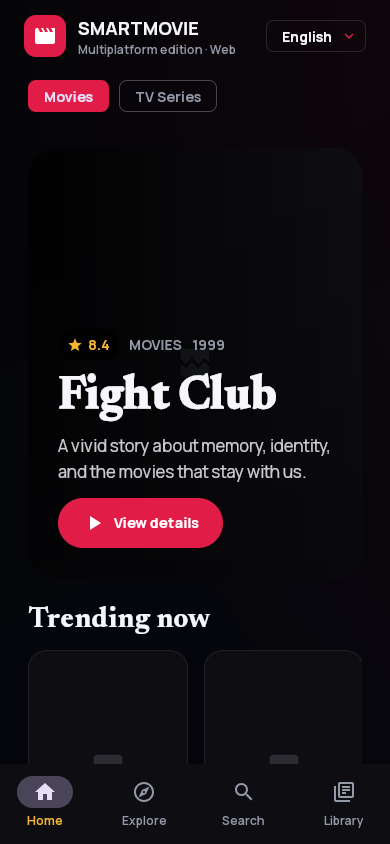
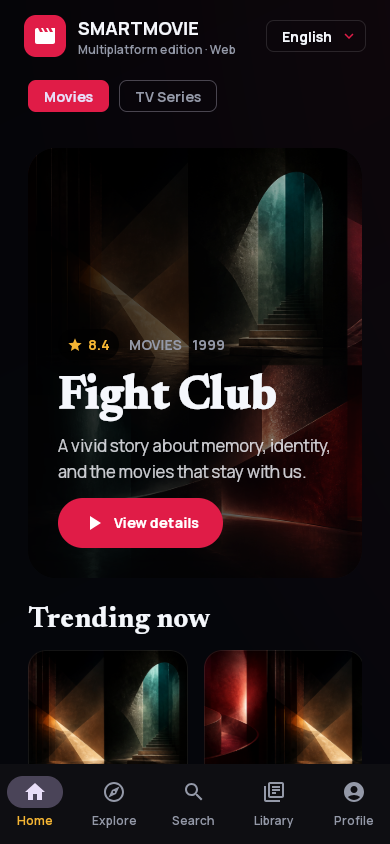
Refresh app gallery and link the shared development roadmap

diff --git a/multiplatform/composeApp/src/commonMain/kotlin/com/lamndt/smartmovie/multiplatform/SmartMovieApp.kt b/multiplatform/composeApp/src/commonMain/kotlin/com/lamndt/smartmovie/multiplatform/SmartMovieApp.kt
@@ -594,6 +594,11 @@ private fun ProfileScreen(state: SmartMovieState, controller: AppController) {
                     TextButton(onClick = { openExternalUrl("https://github.com/LamPPKK/Smart-Movie-Android") }) {
                         Text("Smart Movie Android")
                     }
+                    TextButton(onClick = {
+                        openExternalUrl("https://github.com/LamPPKK/Smart-Movie-iOS/blob/main/docs/DEVELOPMENT_PLAN.md")
+                    }) {
+                        Text(copy.developmentPlan)
+                    }
                 }
             }
         }
@@ -2126,6 +2131,7 @@ private data class ProfileCopy(
     val searchTitles: String,
     val addTitle: String,
     val sourceRepositories: String,
+    val developmentPlan: String,
 )
 
 private fun profileCopy(locale: AppLocale): ProfileCopy = when (locale) {
@@ -2141,7 +2147,7 @@ private fun profileCopy(locale: AppLocale): ProfileCopy = when (locale) {
         "Movie data and images: TMDb. Availability data: JustWatch via TMDb.", "Custom lists", "List name", "Description", "Create list", "Delete",
         "Account recommendations", "No account recommendations yet.",
         "Open", "Close list", "List details", "Waiting for this list to sync before editing.", "Public list", "Save changes",
-        "Titles in this list", "This list has no titles yet.", "Remove", "Add movies and TV series", "Search titles", "Add", "Source repositories",
+        "Titles in this list", "This list has no titles yet.", "Remove", "Add movies and TV series", "Search titles", "Add", "Source repositories", "Development roadmap",
     )
     AppLocale.VIETNAMESE -> ProfileCopy(
         "Hồ sơ", "Tài khoản TMDb", "Đang kiểm tra phiên…", "Đăng nhập qua TMDb trong trình duyệt. SmartMovie không bao giờ nhận mật khẩu của bạn.",
@@ -2155,7 +2161,7 @@ private fun profileCopy(locale: AppLocale): ProfileCopy = when (locale) {
         "Dữ liệu và hình ảnh phim: TMDb. Dữ liệu nơi xem: JustWatch qua TMDb.", "Danh sách tùy chỉnh", "Tên danh sách", "Mô tả", "Tạo danh sách", "Xóa",
         "Đề xuất cho tài khoản", "Chưa có đề xuất cho tài khoản.",
         "Mở", "Đóng danh sách", "Chi tiết danh sách", "Đang chờ đồng bộ danh sách trước khi chỉnh sửa.", "Danh sách công khai", "Lưu thay đổi",
-        "Nội dung trong danh sách", "Danh sách này chưa có nội dung.", "Gỡ", "Thêm phim và chương trình truyền hình", "Tìm phim hoặc chương trình", "Thêm", "Kho mã nguồn",
+        "Nội dung trong danh sách", "Danh sách này chưa có nội dung.", "Gỡ", "Thêm phim và chương trình truyền hình", "Tìm phim hoặc chương trình", "Thêm", "Kho mã nguồn", "Kế hoạch phát triển",
     )
     AppLocale.JAPANESE -> ProfileCopy(
         "プロフィール", "TMDbアカウント", "セッションを確認中…", "ブラウザーでTMDbにログインします。SmartMovieがパスワードを取得することはありません。",
@@ -2169,7 +2175,7 @@ private fun profileCopy(locale: AppLocale): ProfileCopy = when (locale) {
         "映画データと画像: TMDb。配信情報: TMDb経由のJustWatch。", "カスタムリスト", "リスト名", "説明", "リストを作成", "削除",
         "アカウントへのおすすめ", "おすすめはまだありません。",
         "開く", "リストを閉じる", "リストの詳細", "編集する前にリストの同期を待っています。", "公開リスト", "変更を保存",
-        "リスト内の作品", "このリストにはまだ作品がありません。", "削除", "映画とTVシリーズを追加", "作品を検索", "追加", "ソースリポジトリ",
+        "リスト内の作品", "このリストにはまだ作品がありません。", "削除", "映画とTVシリーズを追加", "作品を検索", "追加", "ソースリポジトリ", "開発ロードマップ",
     )
     AppLocale.KOREAN -> ProfileCopy(
         "프로필", "TMDb 계정", "세션 확인 중…", "브라우저에서 TMDb에 로그인합니다. SmartMovie는 비밀번호를 받지 않습니다.",
@@ -2183,7 +2189,7 @@ private fun profileCopy(locale: AppLocale): ProfileCopy = when (locale) {
         "영화 데이터 및 이미지: TMDb. 시청 가능 정보: TMDb를 통한 JustWatch.", "사용자 목록", "목록 이름", "설명", "목록 만들기", "삭제",
         "계정 추천", "아직 계정 추천이 없습니다.",
         "열기", "목록 닫기", "목록 세부 정보", "편집하기 전에 목록 동기화를 기다리는 중입니다.", "공개 목록", "변경 사항 저장",
-        "목록의 콘텐츠", "이 목록에는 아직 콘텐츠가 없습니다.", "제거", "영화 및 TV 시리즈 추가", "콘텐츠 검색", "추가", "소스 저장소",
+        "목록의 콘텐츠", "이 목록에는 아직 콘텐츠가 없습니다.", "제거", "영화 및 TV 시리즈 추가", "콘텐츠 검색", "추가", "소스 저장소", "개발 로드맵",
     )
     AppLocale.CHINESE_SIMPLIFIED -> ProfileCopy(
         "个人资料", "TMDb 账户", "正在检查会话…", "请在浏览器中登录 TMDb。SmartMovie 不会获取您的密码。",
@@ -2197,7 +2203,7 @@ private fun profileCopy(locale: AppLocale): ProfileCopy = when (locale) {
         "电影数据和图片：TMDb。可观看信息：通过 TMDb 提供的 JustWatch。", "自定义列表", "列表名称", "说明", "创建列表", "删除",
         "账户推荐", "暂无账户推荐。",
         "打开", "关闭列表", "列表详情", "正在等待列表同步后再编辑。", "公开列表", "保存更改",
-        "列表中的内容", "此列表中还没有内容。", "移除", "添加电影和电视剧", "搜索内容", "添加", "源代码仓库",
+        "列表中的内容", "此列表中还没有内容。", "移除", "添加电影和电视剧", "搜索内容", "添加", "源代码仓库", "开发路线图",
     )
     AppLocale.CHINESE_TRADITIONAL -> ProfileCopy(
         "個人資料", "TMDb 帳戶", "正在檢查工作階段…", "請在瀏覽器中登入 TMDb。SmartMovie 不會取得您的密碼。",
@@ -2211,6 +2217,6 @@ private fun profileCopy(locale: AppLocale): ProfileCopy = when (locale) {
         "電影資料與圖片：TMDb。可觀看資訊：由 TMDb 提供的 JustWatch。", "自訂清單", "清單名稱", "說明", "建立清單", "刪除",
         "帳戶推薦", "目前沒有帳戶推薦。",
         "開啟", "關閉清單", "清單詳情", "正在等待清單同步後再編輯。", "公開清單", "儲存變更",
-        "清單中的內容", "此清單中還沒有內容。", "移除", "加入電影與電視影集", "搜尋內容", "加入", "原始碼儲存庫",
+        "清單中的內容", "此清單中還沒有內容。", "移除", "加入電影與電視影集", "搜尋內容", "加入", "原始碼儲存庫", "開發藍圖",
     )
 }

diff --git a/feature/about/src/main/java/com/lamndt/smartmovie/feature/about/AboutScreen.kt b/feature/about/src/main/java/com/lamndt/smartmovie/feature/about/AboutScreen.kt
@@ -53,6 +53,11 @@ fun AboutScreen(versionName: String, modifier: Modifier = Modifier) {
                 TextButton(onClick = { uriHandler.openUri("https://github.com/LamPPKK/Smart-Movie-Android") }) {
                     Text("Smart Movie Android")
                 }
+                TextButton(onClick = {
+                    uriHandler.openUri("https://github.com/LamPPKK/Smart-Movie-iOS/blob/main/docs/DEVELOPMENT_PLAN.md")
+                }) {
+                    Text(stringResource(R.string.development_roadmap))
+                }
                 Text(stringResource(R.string.version_format, versionName), color = CinemaColors.Muted, style = MaterialTheme.typography.labelMedium)
             }
         }

diff --git a/docs/SCREENSHOTS.md b/docs/SCREENSHOTS.md
@@ -1,73 +1,89 @@
-# SmartMovie screen gallery
+# Smart Movie Android screen gallery
 
-This gallery documents the SmartMovie 3.0 interface across the shared Compose Multiplatform flow and native Android form factors. Captures use deterministic local catalog data so they remain stable and never expose an account session, adult title, personal list, or production credential.
+This development gallery combines Web/Wasm preview captures and native Android component goldens. It is not a set of store-release or live-TMDb screenshots. Captures never contain a personal TMDb session, adult title, private list, PIN or production credential. Abstract artwork is generated demo imagery from 2026-08-28, not the poster or portrait for the displayed title/person.
 
-## Core flow — Compose Multiplatform
+## Compose Multiplatform core flow
 
-The same shared Kotlin UI and data layer powers macOS, Windows, Linux, and responsive Web/Wasm. Compact browser captures below show the primary user journey from discovery to a saved title.
+The same Kotlin UI/data layer powers native desktop packages for macOS, Windows and Linux plus JavaScript and Wasm browser distributions. Compact captures document every primary destination and a typed `/v2` title detail.
 
 <table>
   <tr>
-    <td width="33%" align="center"><strong>Home</strong><br><sub>Movie/TV switch, hero, and trending shelf</sub></td>
-    <td width="33%" align="center"><strong>Explore</strong><br><sub>Media, rating, and year filters</sub></td>
-    <td width="33%" align="center"><strong>Search</strong><br><sub>Debounced title search and scope selection</sub></td>
+    <td width="33%" align="center"><strong>Home</strong><br><sub>Movie/TV switch, hero and trending</sub></td>
+    <td width="33%" align="center"><strong>Explore</strong><br><sub>Advanced catalog filters</sub></td>
+    <td width="33%" align="center"><strong>Search</strong><br><sub>Catalog/external ID and entity scopes</sub></td>
   </tr>
   <tr>
-    <td><img src="images/screenshots/multiplatform-home-phone.png" alt="SmartMovie Home on a compact screen" width="390"></td>
-    <td><img src="images/screenshots/multiplatform-explore-phone.png" alt="SmartMovie Explore on a compact screen" width="390"></td>
-    <td><img src="images/screenshots/multiplatform-search-phone.png" alt="SmartMovie Search on a compact screen" width="390"></td>
+    <td align="center"><img src="images/screenshots/multiplatform-home-phone.png" alt="Smart Movie Compose Multiplatform Home on a compact screen" width="390"></td>
+    <td align="center"><img src="images/screenshots/multiplatform-explore-phone.png" alt="Smart Movie Compose Multiplatform Explore on a compact screen" width="390"></td>
+    <td align="center"><img src="images/screenshots/multiplatform-search-phone.png" alt="Smart Movie Compose Multiplatform Search on a compact screen" width="390"></td>
   </tr>
   <tr>
-    <td width="33%" align="center"><strong>Detail</strong><br><sub>Trailer, Favorite, Watchlist, story, and cast</sub></td>
-    <td width="33%" align="center"><strong>Library</strong><br><sub>Local Favorites and Watchlist</sub></td>
-    <td width="33%" align="center"><strong>Adaptive desktop</strong><br><sub>Navigation rail and expanded content grid</sub></td>
+    <td width="33%" align="center"><strong>Detail</strong><br><sub>Typed metadata, trailer and library actions</sub></td>
+    <td width="33%" align="center"><strong>Library</strong><br><sub>Favorite and Watchlist local state</sub></td>
+    <td width="33%" align="center"><strong>Profile</strong><br><sub>TMDb auth, region and adult-content PIN</sub></td>
   </tr>
   <tr>
-    <td><img src="images/screenshots/multiplatform-detail-phone.png" alt="SmartMovie title detail on a compact screen" width="390"></td>
-    <td><img src="images/screenshots/multiplatform-library-phone.png" alt="SmartMovie Library on a compact screen" width="390"></td>
-    <td><img src="images/screenshots/multiplatform-home-desktop.png" alt="SmartMovie Home on desktop" width="640"></td>
+    <td align="center"><img src="images/screenshots/multiplatform-detail-phone.png" alt="Smart Movie Compose Multiplatform title detail" width="390"></td>
+    <td align="center"><img src="images/screenshots/multiplatform-library-phone.png" alt="Smart Movie Compose Multiplatform Library" width="390"></td>
+    <td align="center"><img src="images/screenshots/multiplatform-profile-phone.png" alt="Smart Movie Compose Multiplatform Profile" width="390"></td>
   </tr>
 </table>
 
+### Expanded desktop and web
+
+At larger widths, navigation moves to a rail and content density increases. This same responsive composition is shipped by desktop JVM, JS and Wasm targets.
+
+<p align="center">
+  <img src="images/screenshots/multiplatform-home-desktop.png" alt="Smart Movie Compose Multiplatform expanded Home" width="960">
+</p>
+
 ## Native Android form factors
 
-These images are the committed screenshot-test baselines. They verify the cinematic palette, typography, spacing, responsive navigation, TV presentation, and Wear OS remote without relying on a live catalog service.
+These committed Roborazzi baselines exercise the cinematic palette, typography, spacing and responsive compositions without a live catalog dependency. They are component captures, not full app/device captures; their null image paths intentionally exercise placeholders and cannot establish whether native network images load.
 
 ### Android phone
 
-Compact phones use bottom navigation for Home, Explore, Search, and Library.
+The compact golden covers the native Home hero and horizontal catalog shelves used by Android phones.
 
 <p align="center">
-  <img src="../app/src/screenshotTestDebug/reference/com/lamndt/smartmovie/CinematicGoldenPreviewsKt/PhoneHomeGolden_phone_compact_8dbe636a_0.png" alt="SmartMovie native Android phone Home golden screenshot" width="390">
+  <img src="../app/src/screenshotTestDebug/reference/com/lamndt/smartmovie/CinematicGoldenPreviewsKt/PhoneHomeGolden_phone_compact_8dbe636a_0.png" alt="Smart Movie Android native phone Home golden" width="390">
 </p>
 
-### Tablet, foldable, and ChromeOS
+### Tablet, foldable, ChromeOS and Android XR Home Space
 
-Expanded windows move navigation to a rail and increase shelf density. The same adaptive composition covers tablets, unfolded devices, desktop-sized ChromeOS windows, and Android XR Home Space panels.
+Expanded windows increase shelf density and use adaptive navigation. The same 2D composition covers tablets, unfolded devices, resizable ChromeOS windows and XR Home Space panels.
 
 <p align="center">
-  <img src="../app/src/screenshotTestDebug/reference/com/lamndt/smartmovie/CinematicGoldenPreviewsKt/TabletHomeGolden_tablet_expanded_97f2797e_0.png" alt="SmartMovie native Android tablet Home golden screenshot" width="960">
+  <img src="../app/src/screenshotTestDebug/reference/com/lamndt/smartmovie/CinematicGoldenPreviewsKt/TabletHomeGolden_tablet_expanded_97f2797e_0.png" alt="Smart Movie Android expanded tablet Home golden" width="960">
 </p>
 
 ### Android TV
 
-The 10-foot layout has dedicated TV navigation, high-visibility focus treatment, D-pad traversal, and retained focus when returning from details.
+The dedicated 10-foot composition provides high-visibility focus treatment, D-pad traversal and retained focus when returning from details.
 
 <p align="center">
-  <img src="../app/src/screenshotTestDebug/reference/com/lamndt/smartmovie/CinematicGoldenPreviewsKt/TvHomeGolden_tv_1080p_b8c175df_0.png" alt="SmartMovie Android TV Home golden screenshot" width="960">
+  <img src="../app/src/screenshotTestDebug/reference/com/lamndt/smartmovie/CinematicGoldenPreviewsKt/TvHomeGolden_tv_1080p_b8c175df_0.png" alt="Smart Movie Android TV Home golden" width="960">
 </p>
 
-### Wear OS remote
+### Wear OS companion
 
-The watch companion mirrors the safe title or exact episode open on the paired phone. A title exposes detail, trailer, Favorite, and Watchlist actions; an episode exposes only an exact series/season/episode handoff.
+Wear OS mirrors only the safe title or exact episode open on the paired phone. A title can hand off to detail/trailer/library actions; an episode hands off to the exact series, season and episode and never exposes adult content.
 
 <p align="center">
-  <img src="../wear/src/screenshotTestDebug/reference/com/lamndt/smartmovie/wear/WearRemoteGoldenPreviewKt/WearRemoteGolden_wear_round_remote_a6040ff4_0.png" alt="SmartMovie Wear OS remote golden screenshot" width="320">
+  <img src="../wear/src/screenshotTestDebug/reference/com/lamndt/smartmovie/wear/WearRemoteGoldenPreviewKt/WearRemoteGolden_wear_round_remote_a6040ff4_0.png" alt="Smart Movie Wear OS remote golden" width="320">
 </p>
 
-## Capture notes
+## Capture provenance
 
-- Compose Multiplatform captures were generated at `390 × 844` and `1280 × 720` from deterministic contract-compatible preview data.
-- Native images are Roborazzi golden baselines used by Android CI for compact phone, expanded tablet, 1080p TV, and round Wear OS coverage.
-- Artwork placeholders are intentional in deterministic previews; production builds load configured poster and backdrop URLs from the SmartMovie Worker.
-- Android Auto is intentionally excluded because SmartMovie is a video catalog and does not declare an Android for Cars app category.
+| Surface | Capture | Source |
+| --- | --- | --- |
+| Android phone | Native Home | Roborazzi compact golden |
+| Tablet/foldable/ChromeOS/XR | Native expanded Home | Roborazzi expanded golden |
+| Android TV | Native 1080p Home | Roborazzi TV golden |
+| Wear OS | Round remote | Roborazzi Wear golden |
+| Desktop-sized web viewport | Expanded Home | KMP Web/Wasm build, not a native desktop package capture |
+| Responsive Web/Wasm | Home, Explore, Search, Detail, Library, Profile | Local preview at `390 × 844`, captured 2026-08-28 |
+
+Native desktop packages (macOS/Windows/Linux), JS fallback, physical Android/TV/Wear devices and XR need separate release-candidate captures. A shared composition does not replace platform-specific evidence.
+
+Production clients obtain image configuration/paths from the Worker and load image bytes from the configured CDN. The local preview serves generated illustrations from `multiplatform/tools/preview_artwork`; it does not replace missing production images. See the shared [image diagnostics](https://github.com/LamPPKK/Smart-Movie-iOS/blob/main/docs/IMAGE_LOADING.md) for the unresolved Worker DNS blocker. Android Auto is intentionally excluded because Smart Movie is a video catalog and does not declare an Android for Cars category.

diff --git a/README.md b/README.md
@@ -22,6 +22,8 @@ The native app adapts from phones to tablets, foldables, ChromeOS, Android TV, a
 
 Apple and Android keep native UI, lifecycle, and storage while sharing the additive `/v2` Worker contract, six locales, semantic release train, normalized errors, and decoder fixtures. `/v1` remains available for 2.0 clients. TMDb is the post-login account source of truth; each client remains local-first through a durable, account-scoped outbox.
 
+The canonical cross-repository roadmap lives in the backend-owner repository: [Kế hoạch phát triển Smart Movie sau 3.0](https://github.com/LamPPKK/Smart-Movie-iOS/blob/main/docs/DEVELOPMENT_PLAN.md). It defines release order, parity, per-feature commit/push discipline, and the shared Definition of Done.
+
 ## What you can do
 
 - **Explore the complete catalog** through Home, trending, pagination, retry, cancellation, and regional Discover filters for dates, language, country, certification, runtime, votes, providers, monetization, rating, and adult-PIN context.
@@ -40,52 +42,54 @@ Apple and Android keep native UI, lifecycle, and storage while sharing the addit
 - **Navigate without touch** using keyboard shortcuts on ChromeOS/desktop and focus-preserving D-pad navigation on Android TV.
 - **Use the app in six languages**: English, Vietnamese, Japanese, Korean, Simplified Chinese, and Traditional Chinese.
 
-## Screenshots
+## Latest screenshots
 
-All images below are checked-in deterministic captures. The native Android images are also visual-regression baselines used by CI.
+The gallery combines local Web/Wasm preview captures with native Android component goldens. Abstract artwork is generated demo imagery, not actual TMDb posters or portraits. Native goldens intentionally have no network images; they do not prove native image loading. No image contains an account token, personal list, adult title, or production credential.
 
-### Native Android phone and tablet
+Missing thumbnails? See the shared [image loading diagnosis and production checklist](https://github.com/LamPPKK/Smart-Movie-iOS/blob/main/docs/IMAGE_LOADING.md). Local preview image delivery has regression tests; staging/production Worker DNS remains a separate release blocker as checked on 2026-08-28.
 
-<table>
-  <tr>
-    <td width="34%" align="center"><strong>Phone</strong><br><sub>Compact Home with bottom navigation</sub></td>
-    <td width="66%" align="center"><strong>Tablet · foldable · ChromeOS · XR Home Space</strong><br><sub>Expanded navigation rail and denser content shelves</sub></td>
-  </tr>
-  <tr>
-    <td align="center"><img src="app/src/screenshotTestDebug/reference/com/lamndt/smartmovie/CinematicGoldenPreviewsKt/PhoneHomeGolden_phone_compact_8dbe636a_0.png" alt="SmartMovie native Android Home on a compact phone" width="330"></td>
-    <td align="center"><img src="app/src/screenshotTestDebug/reference/com/lamndt/smartmovie/CinematicGoldenPreviewsKt/TabletHomeGolden_tablet_expanded_97f2797e_0.png" alt="SmartMovie native Android Home on an expanded tablet" width="760"></td>
-  </tr>
-</table>
-
-### Android TV and Wear OS
+### Native Android phone, tablet, TV and Wear OS
 
 <table>
   <tr>
-    <td width="72%" align="center"><strong>Android TV</strong><br><sub>10-foot layout with high-visibility D-pad focus</sub></td>
-    <td width="28%" align="center"><strong>Wear OS remote</strong><br><sub>Mirror a safe title/episode; title-only trailer and library controls</sub></td>
+    <td width="34%" align="center"><strong>Phone</strong><br><sub>Compact cinematic Home composition</sub></td>
+    <td width="66%" align="center"><strong>Tablet · foldable · ChromeOS · XR Home Space</strong><br><sub>Expanded layout and denser shelves</sub></td>
   </tr>
   <tr>
-    <td align="center"><img src="app/src/screenshotTestDebug/reference/com/lamndt/smartmovie/CinematicGoldenPreviewsKt/TvHomeGolden_tv_1080p_b8c175df_0.png" alt="SmartMovie Home on Android TV" width="760"></td>
-    <td align="center"><img src="wear/src/screenshotTestDebug/reference/com/lamndt/smartmovie/wear/WearRemoteGoldenPreviewKt/WearRemoteGolden_wear_round_remote_a6040ff4_0.png" alt="SmartMovie companion remote on Wear OS" width="280"></td>
+    <td align="center"><img src="app/src/screenshotTestDebug/reference/com/lamndt/smartmovie/CinematicGoldenPreviewsKt/PhoneHomeGolden_phone_compact_8dbe636a_0.png" alt="Smart Movie Android native Home on a compact phone" width="330"></td>
+    <td align="center"><img src="app/src/screenshotTestDebug/reference/com/lamndt/smartmovie/CinematicGoldenPreviewsKt/TabletHomeGolden_tablet_expanded_97f2797e_0.png" alt="Smart Movie Android native Home on an expanded tablet" width="760"></td>
   </tr>
 </table>
-
-### Compose Multiplatform — desktop and web
-
-The Kotlin Multiplatform app shares one Compose UI/data layer across macOS, Windows, Linux, JavaScript, and Wasm. It is separate from the native Android modules and does not replace the native SwiftUI Apple mobile app.
 
 <table>
   <tr>
-    <td width="66%" align="center"><strong>Expanded desktop/web</strong><br><sub>Navigation rail and responsive content grid</sub></td>
-    <td width="34%" align="center"><strong>Compact detail</strong><br><sub>Trailer, library actions, story, and cast</sub></td>
+    <td width="72%" align="center"><strong>Android TV</strong><br><sub>Dedicated 10-foot layout and D-pad focus</sub></td>
+    <td width="28%" align="center"><strong>Wear OS</strong><br><sub>Safe title/episode remote and phone handoff</sub></td>
   </tr>
   <tr>
-    <td align="center"><img src="docs/images/screenshots/multiplatform-home-desktop.png" alt="SmartMovie Compose Multiplatform Home on desktop" width="760"></td>
-    <td align="center"><img src="docs/images/screenshots/multiplatform-detail-phone.png" alt="SmartMovie Compose Multiplatform detail on a compact browser" width="330"></td>
+    <td align="center"><img src="app/src/screenshotTestDebug/reference/com/lamndt/smartmovie/CinematicGoldenPreviewsKt/TvHomeGolden_tv_1080p_b8c175df_0.png" alt="Smart Movie Android Home on Android TV" width="760"></td>
+    <td align="center"><img src="wear/src/screenshotTestDebug/reference/com/lamndt/smartmovie/wear/WearRemoteGoldenPreviewKt/WearRemoteGolden_wear_round_remote_a6040ff4_0.png" alt="Smart Movie Android companion remote on Wear OS" width="280"></td>
   </tr>
 </table>
 
-See the complete [screen gallery](docs/SCREENSHOTS.md) for Home, Explore, Search, Detail, Library, and responsive layout captures. [Platform support](docs/PLATFORM_SUPPORT.md) defines the exact release boundary for every device class, including why Android Auto is intentionally not declared.
+### Compose Multiplatform — desktop and Web/Wasm
+
+The isolated KMP app shares its Kotlin data and Compose UI across macOS, Windows, Linux, JavaScript, and Wasm. The latest captures expose the same five destinations as the native clients.
+
+<table>
+  <tr>
+    <td width="50%" align="center"><strong>Expanded desktop/web</strong><br><sub>Navigation rail and responsive catalog</sub></td>
+    <td width="25%" align="center"><strong>Detail</strong><br><sub>Typed `/v2` metadata and actions</sub></td>
+    <td width="25%" align="center"><strong>Profile</strong><br><sub>TMDb auth, region and adult-content PIN</sub></td>
+  </tr>
+  <tr>
+    <td align="center"><img src="docs/images/screenshots/multiplatform-home-desktop.png" alt="Smart Movie Compose Multiplatform Home on desktop" width="720"></td>
+    <td align="center"><img src="docs/images/screenshots/multiplatform-detail-phone.png" alt="Smart Movie Compose Multiplatform title detail" width="300"></td>
+    <td align="center"><img src="docs/images/screenshots/multiplatform-profile-phone.png" alt="Smart Movie Compose Multiplatform Profile" width="300"></td>
+  </tr>
+</table>
+
+See the complete [screen gallery](docs/SCREENSHOTS.md) for Home, Explore, Search, Detail, Library, Profile and capture provenance. [Platform support](docs/PLATFORM_SUPPORT.md) defines the exact release boundary for every device class, including why Android Auto is intentionally not declared.
 
 ## App and platform matrix
 

diff --git a/multiplatform/README.md b/multiplatform/README.md
@@ -11,6 +11,8 @@ This project delivers SmartMovie to the remaining production Compose Multiplatfo
 
 The separate `SmartMovie` repository owns the native SwiftUI clients for iPhone, iPad, Mac, Apple TV, Apple Watch, and Apple Vision Pro. Compose Multiplatform intentionally does not produce an Apple mobile framework or host application.
 
+Product work follows the single cross-repository [Smart Movie development plan](https://github.com/LamPPKK/Smart-Movie-iOS/blob/main/docs/DEVELOPMENT_PLAN.md). Every KMP feature must keep contract behavior, six-locale copy, privacy and release version aligned with the native apps.
+
 ## Architecture
 
 `composeApp` owns the shared `/v2` catalog/account contracts, Ktor Worker client, entity and External ID search, navigable Credit Detail flows, paginated Movie/TV account recommendations, retry/cancellation behavior, anonymous installation ID, local-first Favorite/Watchlist library, account-scoped durable mutation outbox, explicit adult age confirmation plus local PIN/lockout state, six-locale copy, UDF controller, and adaptive cinematic UI. Platform source sets provide storage, secure session behavior, URL handoff, API base URL, and entry points.
@@ -43,7 +45,11 @@ First build the Wasm distribution, then run:
 python3 tools/preview_server.py
 ```
 
-Open `http://127.0.0.1:8099/?preview=1`. The server supplies deterministic `/v1` responses without a TMDb token and is intended only for UI QA.
+Open `http://127.0.0.1:8099/?preview=1`. The server supplies deterministic, contract-backed `/v1` and `/v2` catalog responses without a TMDb token and is intended only for UI QA and documentation captures. Account requests remain unauthorized so screenshots cannot include a real session.
+
+The preview's `/artwork/` configuration points to generated abstract demo images, not actual TMDb posters/portraits. Nested fixture paths are mapped to available local assets; canonical fixtures are unchanged. Run `python3 -B -m unittest discover -s tools -p 'test_*.py' -v` to verify complete PNG responses for every advertised size, missing-image 404 and account 401. These checks are part of Compose Multiplatform CI and do not prove production Worker/CDN availability.
+
+The current Home, Explore, Search, Detail, Library, Profile and expanded-layout captures are documented in the repository [screen gallery](../docs/SCREENSHOTS.md).
 
 ## Release boundaries
 
